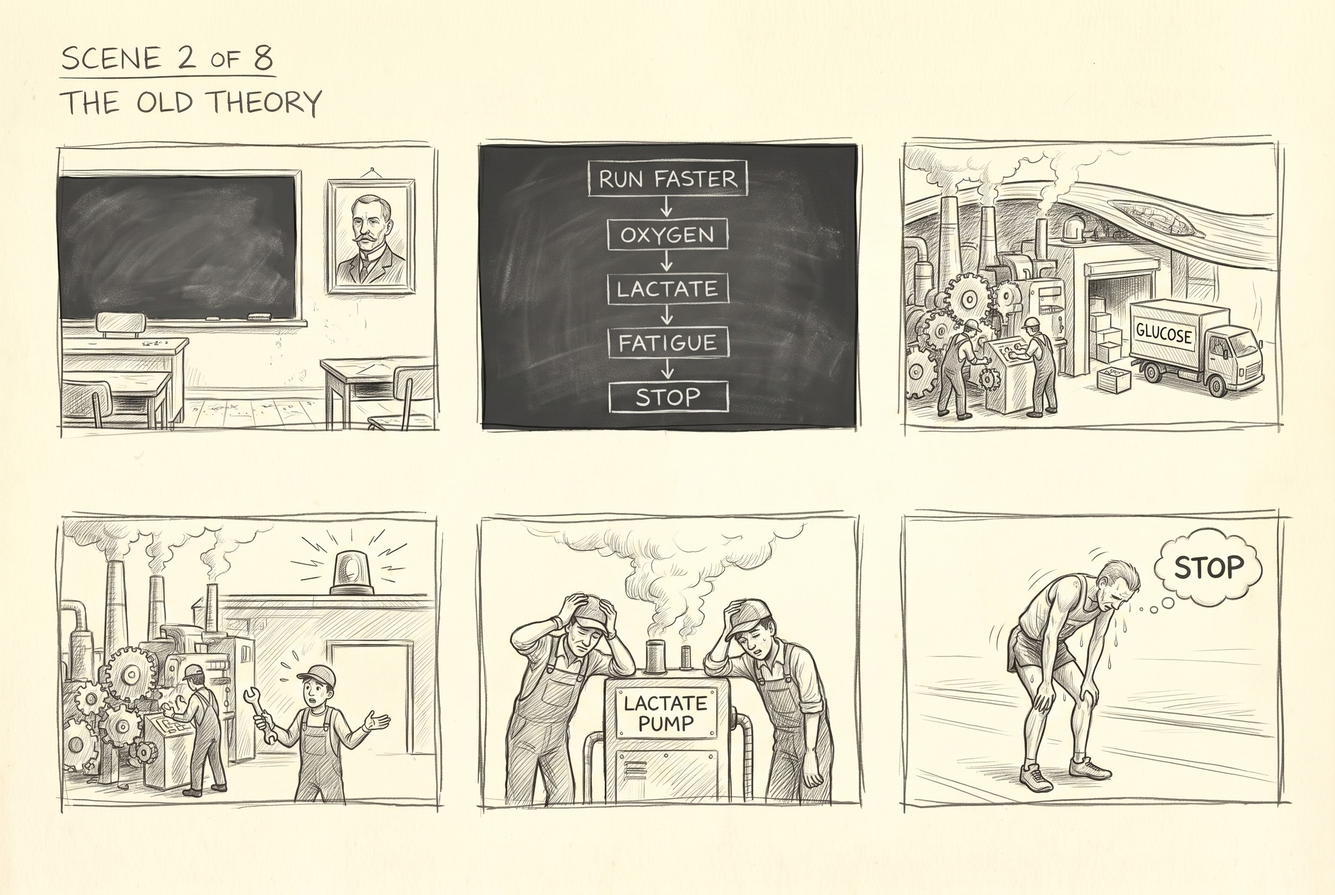
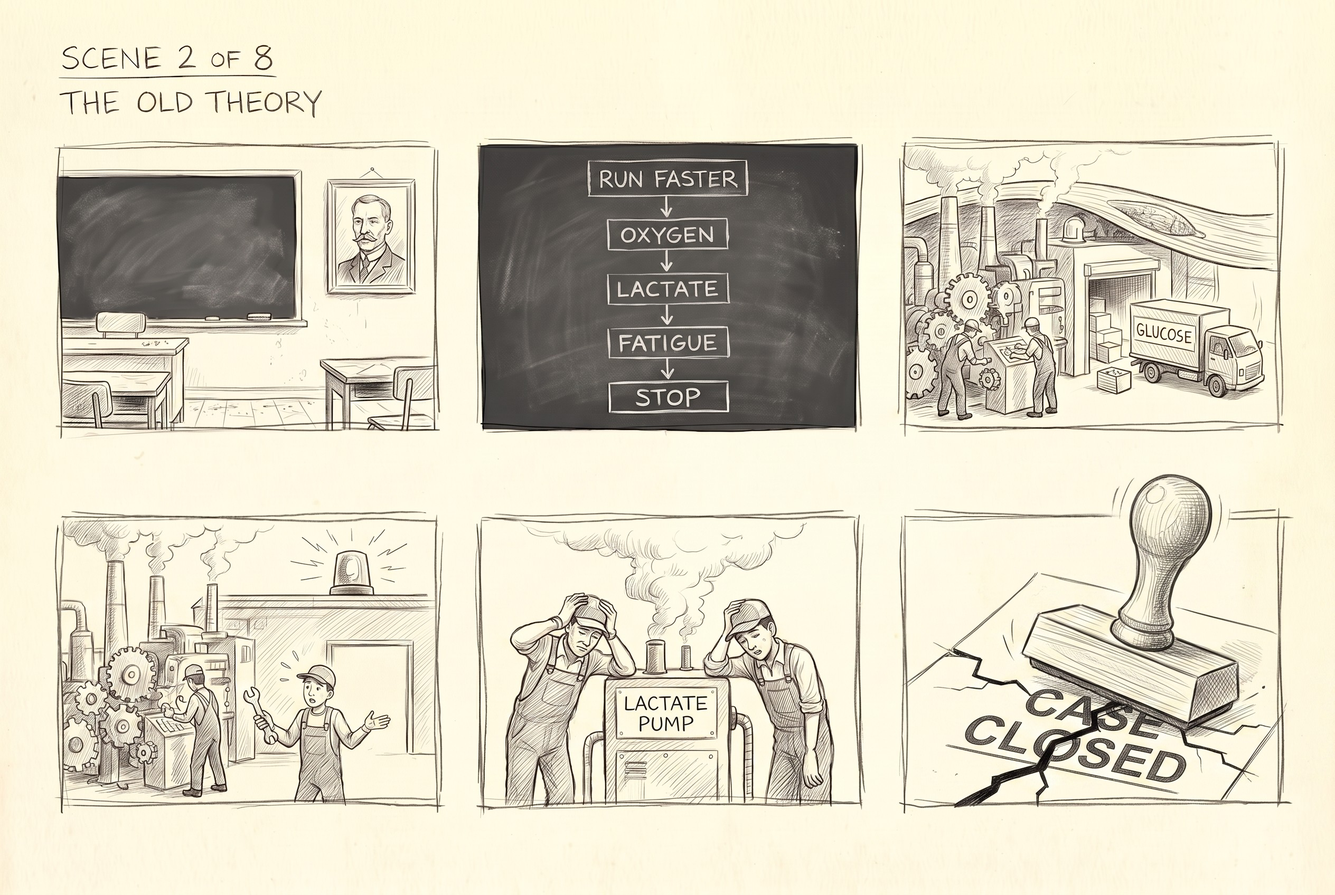
Scene 2 locked, and a board sheet is repairable panel by panel
The stamp and the crack replaced the wrong sixth panel, in the same pencil, with the
other five untouched. So a wrong beat costs one panel rather than a whole sheet,
which changes the economics of boarding.

CASE CLOSED came back clean. Three for three on short words in a named place.

diff --git a/editor.md b/editor.md
@@ -291,3 +291,19 @@ and it is trivially avoidable. Ask for a silhouette, a shape, a flat graphic.
 
 **The editor is the right tool for both.** Given a finished coherent image it changes what it is asked
 about and leaves the rest alone, which is exactly what a clean up pass is.
+
+---
+
+## 12. SINGLE PANEL REPAIR ON A BOARD SHEET WORKS, 11.8.2026
+
+`V6_S2` came back with five correct panels and a wrong sixth. The editor was asked to replace the drawing
+inside the bottom right panel only, keeping its border, and it did exactly that: CASE CLOSED stamped and
+cracked, in the same pencil, with the other five panels untouched.
+
+**So a six panel board is repairable panel by panel.** A wrong beat no longer costs a whole sheet, which
+changes the economics of boarding: generate a scene in one pass, then fix the one or two panels that
+missed. This is the same law as everywhere else on this tool. Given a coherent finished image it edits
+surgically, and a board sheet is a coherent finished image.
+
+**And the lettering held again.** CASE CLOSED came back clean, which is now three for three on the rule:
+short words, in a named place, land correctly.
